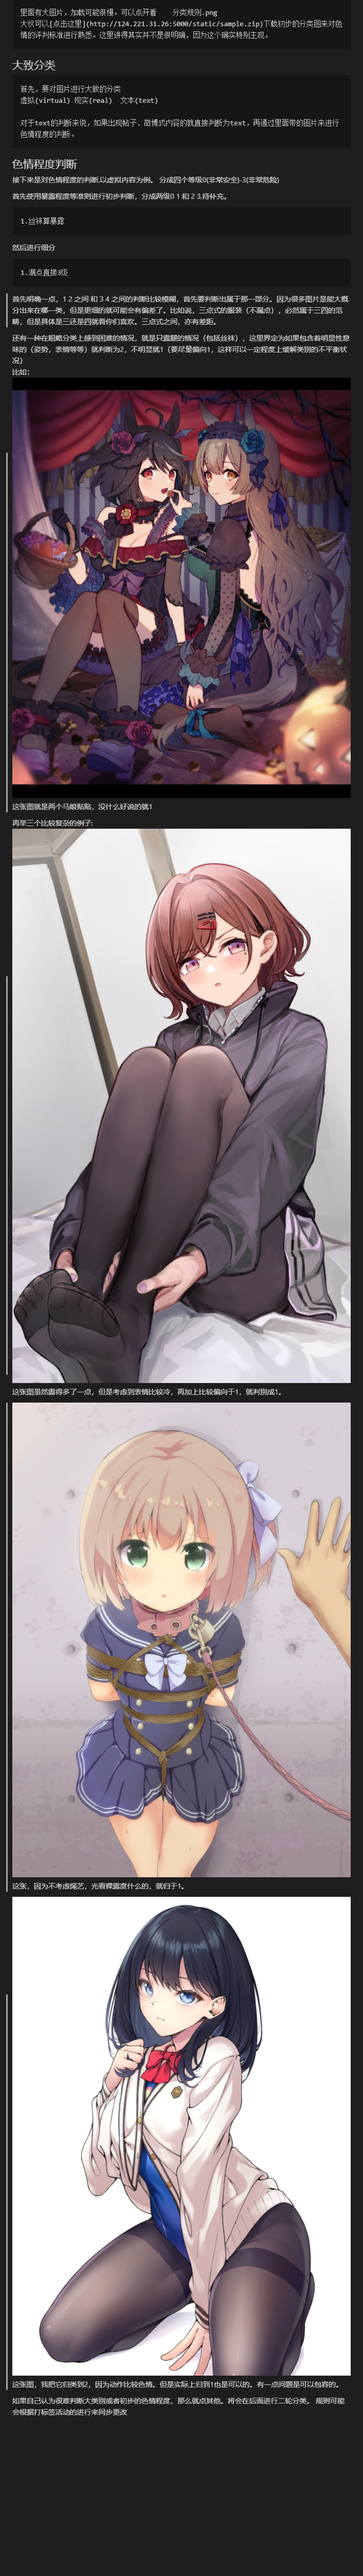
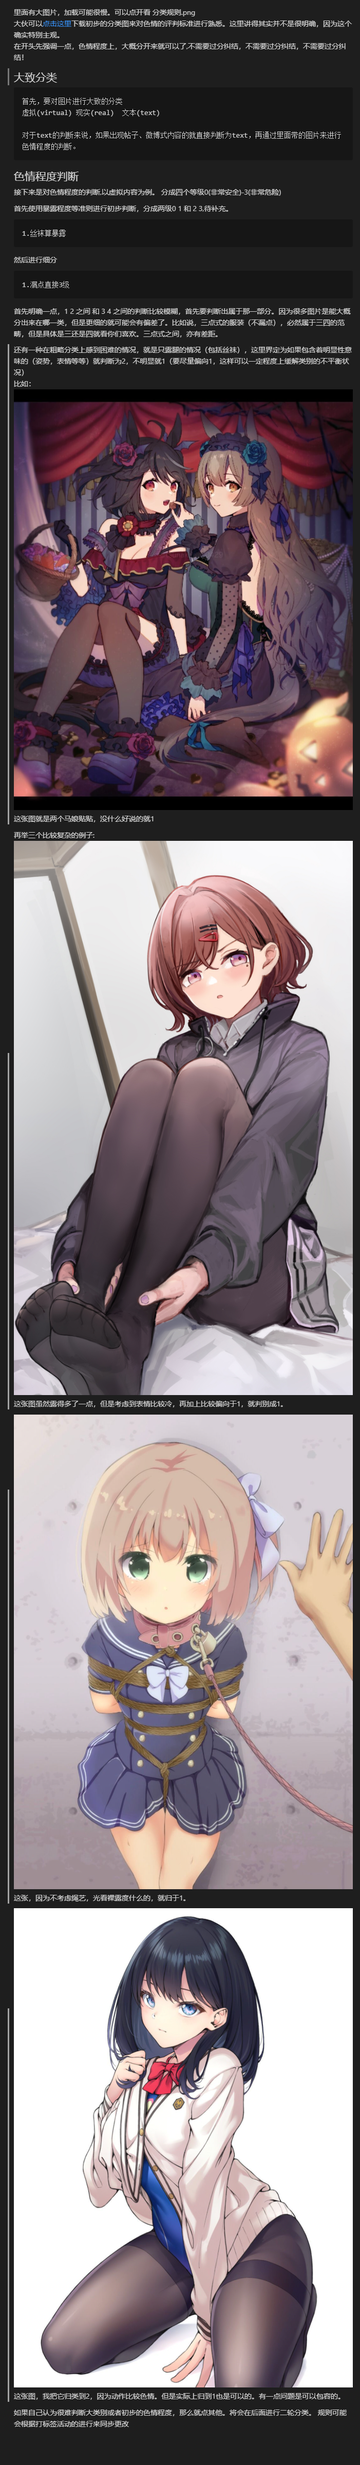
上传分类规则

diff --git a/分类规则.md b/分类规则.md
@@ -1,5 +1,6 @@
-    里面有大图片，加载可能很慢。可以点开看    分类规则.png
-    大伙可以[点击这里](http://124.221.31.26:5000/static/sample.zip)下载初步的分类图来对色情的评判标准进行熟悉。这里讲得其实并不是很明确，因为这个确实特别主观。
+里面有大图片，加载可能很慢。可以点开看  分类规则.png   
+大伙可以[点击这里](http://124.221.31.26:5000/static/sample.zip)下载初步的分类图来对色情的评判标准进行熟悉。这里讲得其实并不是很明确，因为这个确实特别主观。  
+在开头先强调一点，色情程度上，大概分开来就可以了,不需要过分纠结，不需要过分纠结，不需要过分纠结！
 ## 大致分类
     首先，要对图片进行大致的分类
     虚拟(virtual) 现实(real)  文本(text)
